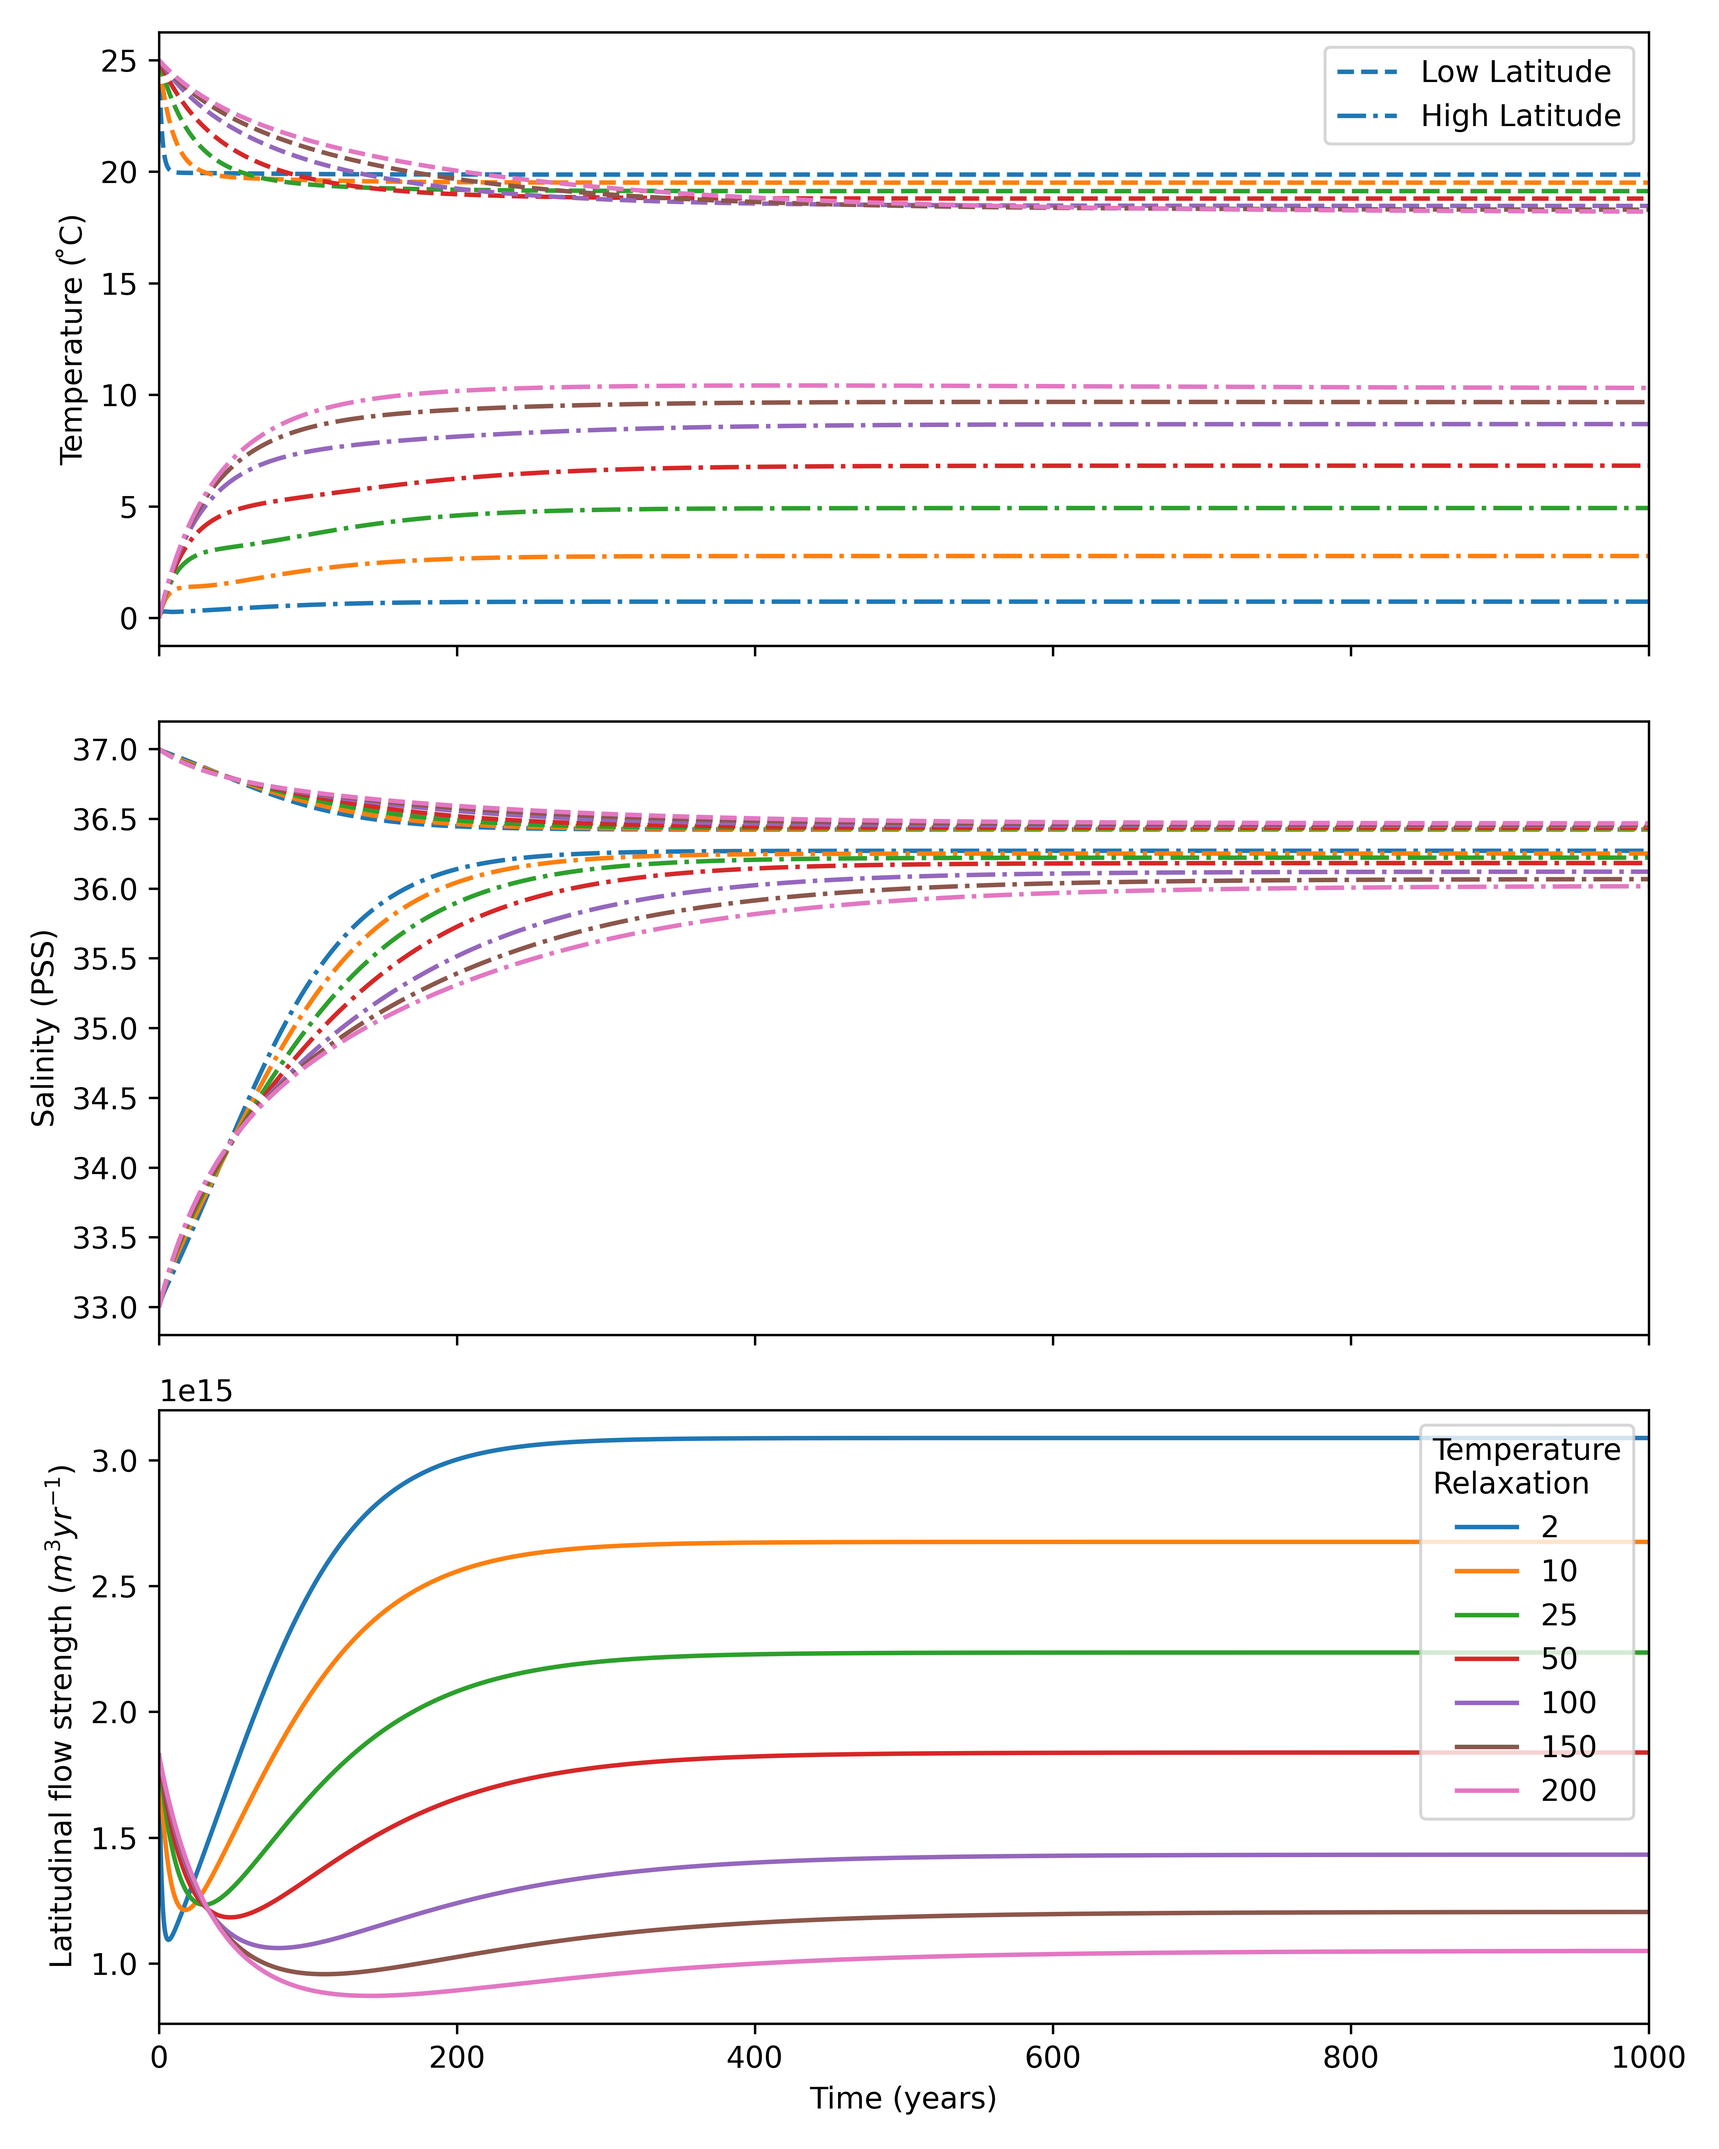
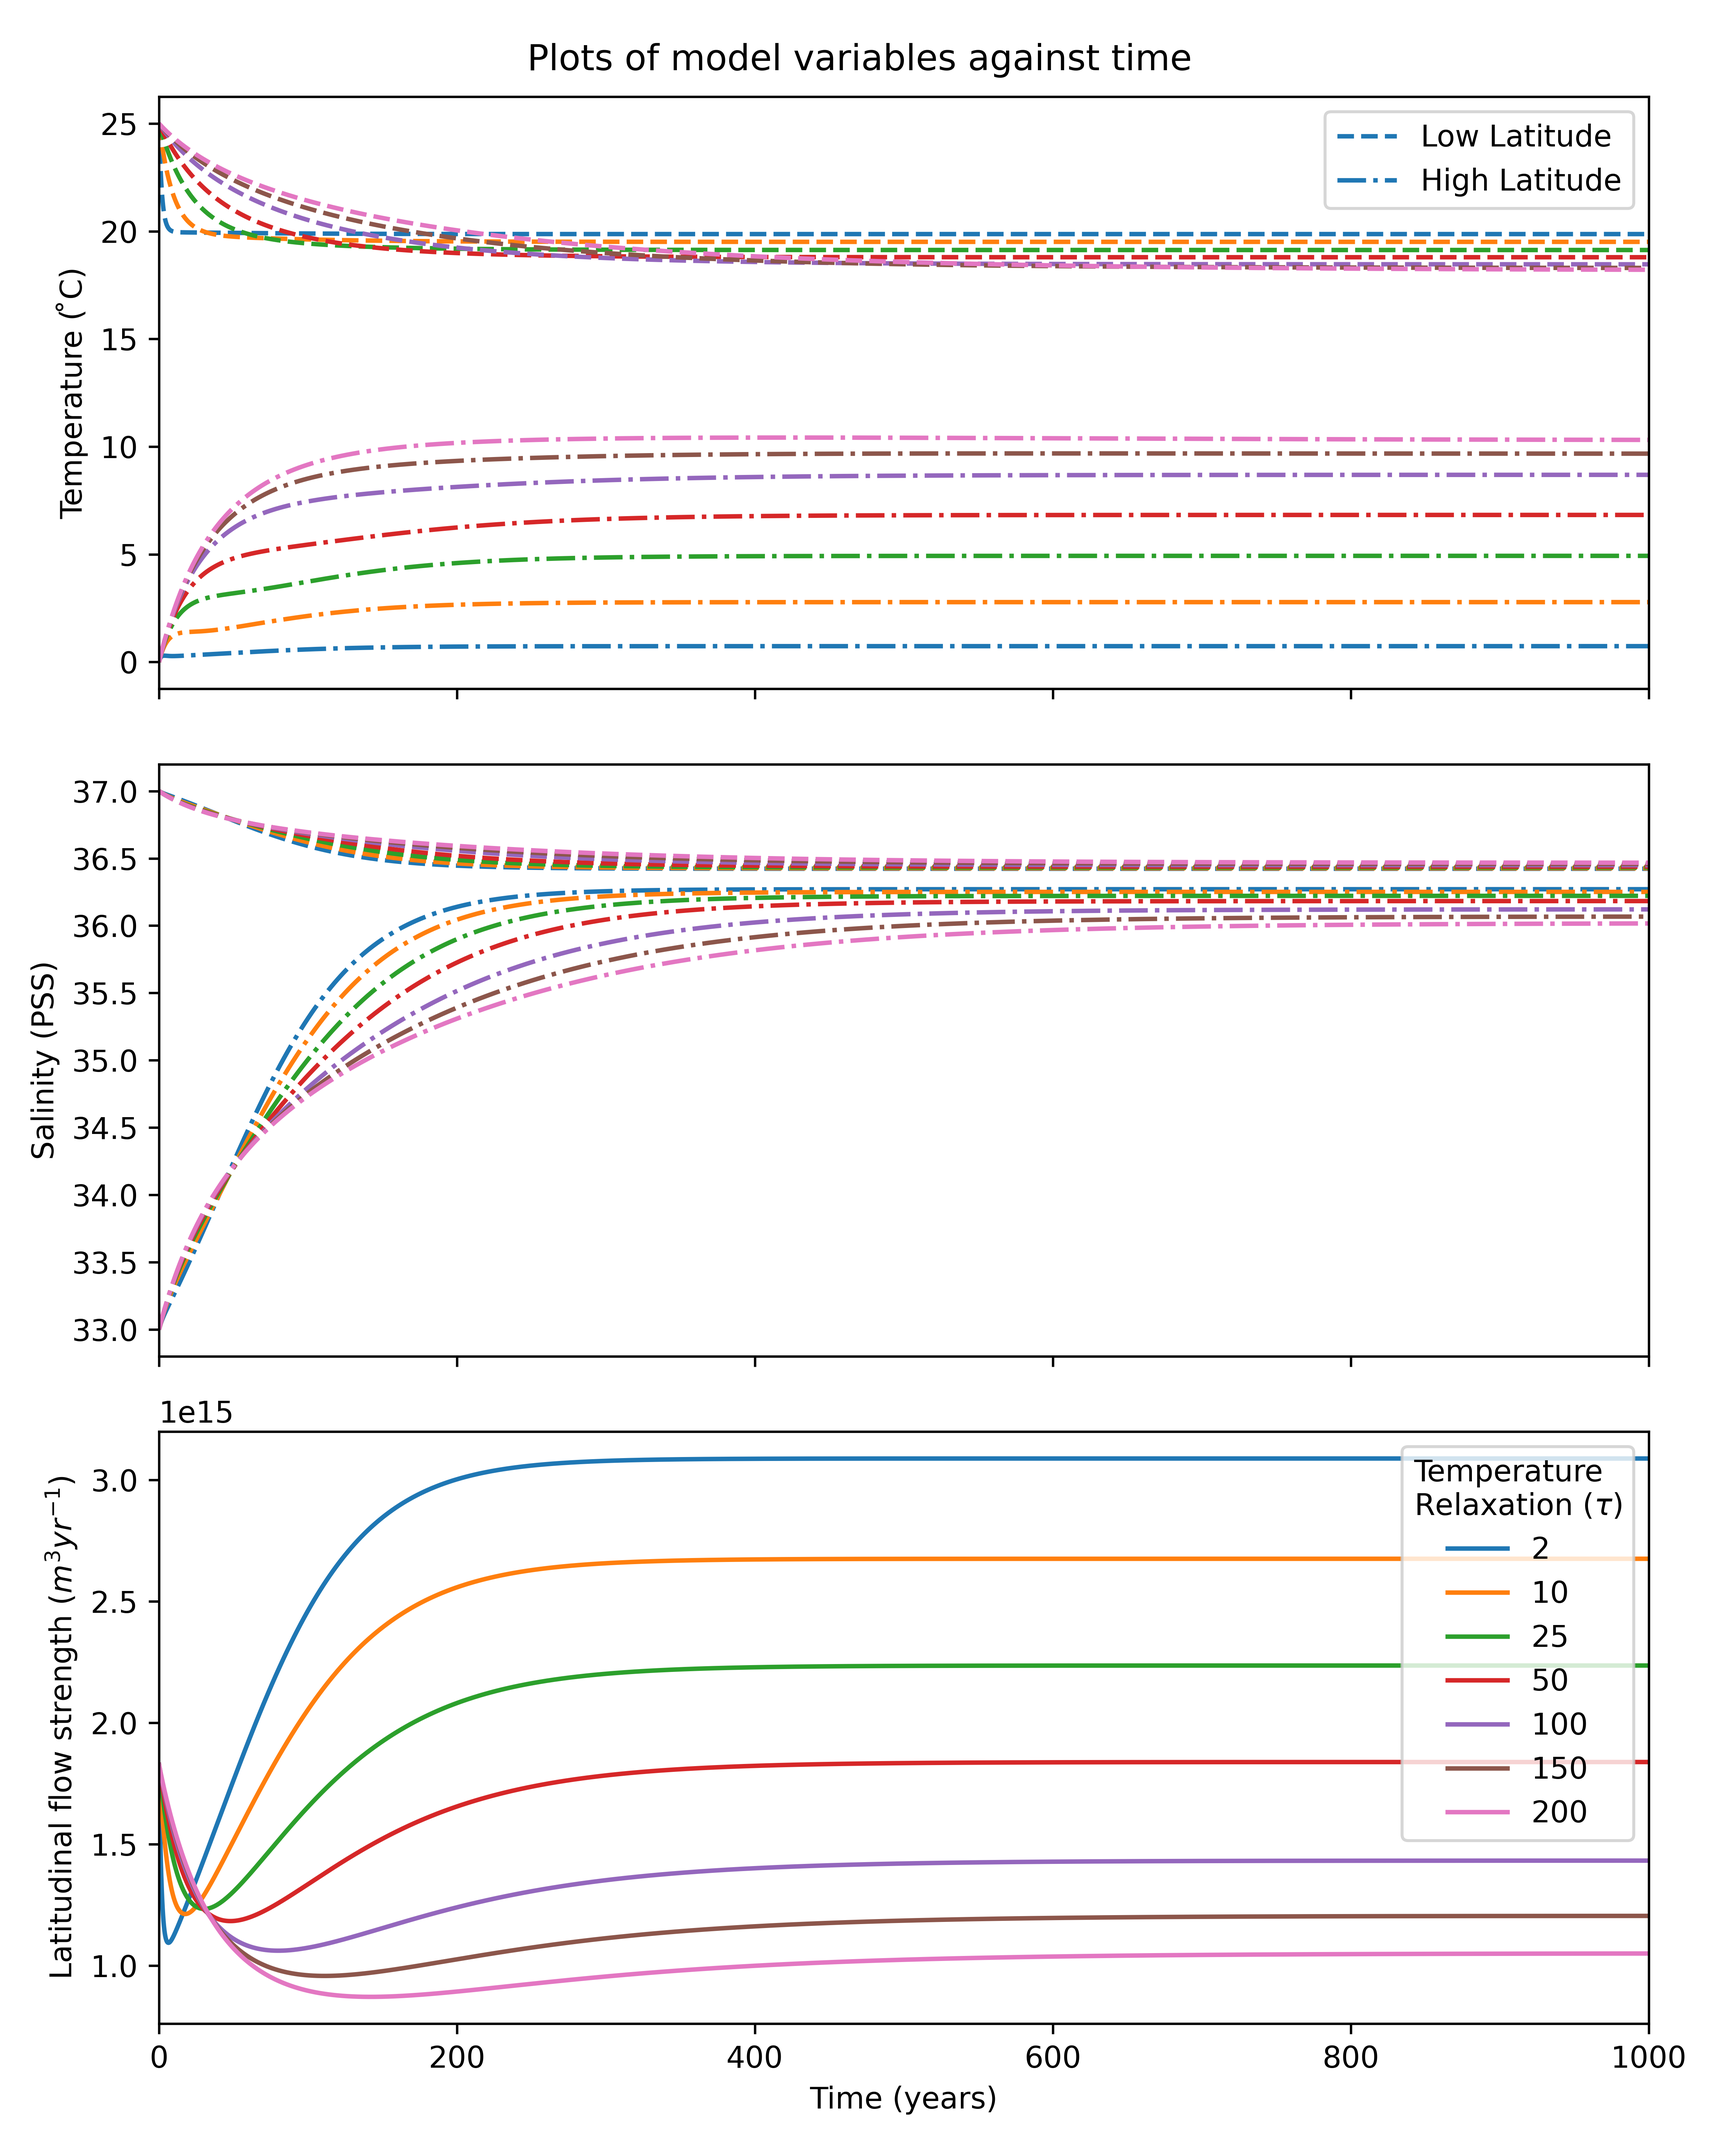
Finished Lab Report Q4

diff --git a/Practical 13/LabReportQuestion3.py b/Practical 13/LabReportQuestion3.py
@@ -127,25 +127,29 @@ def ocean_model(lolat, hilat, deep, tmax, dt):
     return time, lolat, hilat, deep
 
 
-time, lolat, hilat, deep = ocean_model(init_lolat, init_hilat, init_deep, 1000, 0.5)
+time, lolat, hilat, deep = ocean_model(init_lolat, init_hilat, init_deep, 200, 0.5)
 
 fig, axs = plot.boxes(time, ['T', 'S'], hilat)
 
 lo, hi, de = copy_dicts([init_lolat, init_hilat, init_deep])
 lo['tau_M'] *= 2
 hi['tau_M'] *= 2
-time, lo, hi, de = ocean_model(lo, hi, de, 1000, 0.5)
-plot.boxes(time, ['T', 'S'], hi, axs=axs, ls='dotted', label='double tau m')
+time, lo, hi, de = ocean_model(lo, hi, de, 200, 0.5)
+plot.boxes(time, ['T', 'S'], hi, axs=axs, ls='dotted', label=r'double $\tau_m$')
 
 
 lo, hi, de = copy_dicts([init_lolat, init_hilat, init_deep])
 lo['tau_M'] /= 2
 hi['tau_M'] /= 2
-time, lo, hi, de = ocean_model(lo, hi, de, 1000, 0.5)
-plot.boxes(time, ['T', 'S'], hi, axs=axs, ls='--', label='half tau m')
+time, lo, hi, de = ocean_model(lo, hi, de, 200, 0.5)
+plot.boxes(time, ['T', 'S'], hi, axs=axs, ls='--', label=r'half $\tau_m$')
 
-axs[0].set_ylim(3, 4.5)
-
+axs[0].set_ylim(3, 10)
+axs[0].set_ylabel('Temperature ( ̊C)')
+axs[1].set_ylabel('Salinity (PSS)')
+axs[1].set_xlabel('Time (years)')
+plt.suptitle('Plots of high latitude temperature and salinity against time')
 plt.savefig('Lab_Report_Q3_Output.png', dpi=600)
+axs[1].get_legend().remove()
 plt.show()
 

diff --git a/Practical 11/LabReportQuestion1.py b/Practical 11/LabReportQuestion1.py
@@ -81,13 +81,13 @@ def plot_graph():
         ax.set_xlim(0, max_t)
 
     # adds reference bars, with labels, and then adds a legend
-    axs[1].plot([0, max_t], [IL, IL], 'k--', label='Incoming Radiation (Low Latitude)')
-    axs[1].plot([0, max_t], [IH, IH], 'k-.', label='Incoming Radiation (High Latitude)')
-    axs[1].legend()
+    axs[1].plot([0, max_t], [IL, IL], 'k--', label='Low Latitude')
+    axs[1].plot([0, max_t], [IH, IH], 'k-.', label='High Latitude')
+    axs[1].legend(title='Incoming Radiation')
 
     # adds more text and labels
     axs[0].text(10, 15.5, 'Top sets = low latitudes, bottom sets = high latitudes, '
-                          'Shaded areas represent range of normal temperatures', c='grey')
+                          'Shaded areas represent range of normal temperatures', c='black')
     axs[0].set_ylabel('Temperature ( ̊C)')
     axs[1].set_ylabel('Heat Flux (Wm$^{-2}$)')
     axs[2].set_ylabel('Latitudinal Heat Flow (Wm$^{-2}$)')
@@ -98,7 +98,7 @@ def plot_graph():
     axs[0].fill_between(steps, -5, 5, color='lightgray')
 
     # adds the bottom legend, but with more fancy positioning etc
-    axs[2].legend(title='Value of D', ncol=3, fancybox=True)
+    axs[2].legend(title='Values of D', ncol=3, fancybox=True)
 
     # makes it pretty :)
     fig.tight_layout()

diff --git a/Practical 14/P4main.py b/Practical 14/P4main.py
@@ -90,7 +90,7 @@ def ocean_model_p14(dicts, tmax, dt):
         )
         box['CO2'] = csys.CO2 * 1e-3  # 1e3 converts back to mol m-3
         box['pH'] = csys.pHtot  # this is -log10([H+])
-        box['pCO2'] = csys.pCO2  # this is already in the right units (ppm)
+        #box['pCO2'] = csys.pCO2  # this is already in the right units (ppm)
         box['K0'] = csys.Ks.K0  # Henry's law constant - [CO2] = K0 * pCO2
 
     # Create a dictionary to keep track of the fluxes calculated at each step
@@ -169,7 +169,7 @@ def ocean_model_p14(dicts, tmax, dt):
             )
             box['CO2'][i] = csys.CO2 * 1e-3  # 1e3 converts back to mol m-3
             box['pH'][i] = csys.pHtot  # this is -log10([H+])
-            box['pCO2'][i] = csys.pCO2  # this is already in the right units (ppm)
+           # box['pCO2'][i] = csys.pCO2  # this is already in the right units (ppm)
             box['K0'][i] = csys.Ks.K0  # Henry's law constant - [CO2] = K0 * pCO2
 
         # ===================== UPDATE ATMOSPHERE BOX ===================== #

diff --git a/Practical 15/LabReportQuestion5.py b/Practical 15/LabReportQuestion5.py
@@ -42,11 +42,11 @@ def run():
 
         # if this is the model, it will make a new fig, axs and plot the graph
         if i == 0:
-            fig, axs = plot.boxes(time_array, ['pCO2'],
+            fig, axs = plot.boxes(time_array, ['pCO2', 'TA', 'DIC'],
                                   final_lolat, final_hilat, final_deep, final_atmos, ls=ls, height=5)
         # if it's the second or third, this is the same, but it inputs the axes
         else:
-            fig, axs = plot.boxes(time_array, ['pCO2'],
+            fig, axs = plot.boxes(time_array, ['pCO2', 'TA', 'DIC'],
                                   final_lolat, final_hilat, final_deep, final_atmos, axs=axs, ls=ls, label=name)
 
         # prints the equilibrium values

diff --git a/Practical 12/LabReportQuestion2.py b/Practical 12/LabReportQuestion2.py
@@ -89,7 +89,7 @@ def main():
 
     # Decorate figure
     axs[0].legend(loc='upper right')
-    axs[2].legend(title='Temperature\nRelaxation', loc='upper right')
+    axs[2].legend(title='Temperature\n'+r'Relaxation ($\tau$)', loc='upper right')
     axs[0].set_ylabel('Temperature ( ̊C)')
     axs[1].set_ylabel('Salinity (PSS)')
     axs[2].set_ylabel('Latitudinal flow strength ($m^{3}yr^{-1}$)')
@@ -98,6 +98,7 @@ def main():
     for ax in axs:
         ax.set_xlim(0, 1000)
     # show figure
+    plt.suptitle('Plots of model variables against time')
     fig.tight_layout()
     plt.savefig('Lab_Report_Q2_Output.png', dpi=600)
     plt.show()

diff --git a/Practical 14/LabReportQuestion4.py b/Practical 14/LabReportQuestion4.py
@@ -122,6 +122,12 @@ def question_4():
     fig, axs = plot.boxes(time_array, ['DIC', 'pCO2', 'GtC_emissions'],
                           final_lolat, final_hilat, final_deep, final_atmos)
 
+    axs[-1].set_xlabel('Time (Years)')
+    axs[-1].set_ylabel('Emissions (GtC)')
+    axs[1].set_ylabel('pCO2 (ppm)')
+    axs[0].set_ylabel(r'DIC (mol m$^{-3}$)')
+    plt.suptitle('Plots of model variables against time')
+    plt.savefig('Lab_Report_Q4_Output.png', dpi=600)
     plt.show()
 
 
